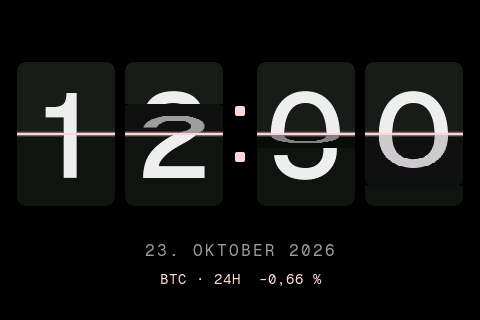
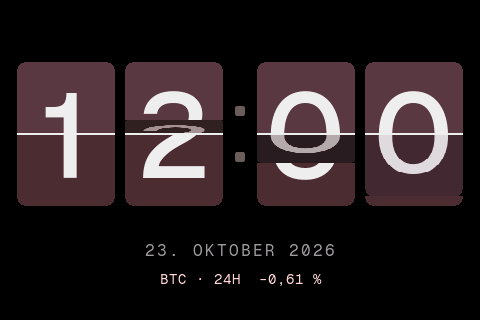
Klappzahlen: weiße Fuge, Plättchen in Trendfarbe getönt
- die Fuge ist eine weiße Linie, der 24h-Trend tönt stattdessen die Plättchen: grün bei
  steigendem, rosé bei fallendem Kurs (eigene Palette der Plättchen, Ziffern bleiben weiß)
- README und Website angepasst

diff --git a/docs/index.html b/docs/index.html
@@ -250,13 +250,13 @@ footer a{color:var(--text2)}
       <div class="media">
         <div class="duo">
           <figure><img src="img/uhr-1.png" alt="Klappzahlen beim Umklappen"><figcaption class="cap">12:59 → 13:00 · klappt</figcaption></figure>
-          <figure><img src="img/uhr-2.png" alt="Klappzahlen mit steigendem Kurs: grünes Licht in der Fuge"><figcaption class="cap">24h gestiegen · grün</figcaption></figure>
+          <figure><img src="img/uhr-2.png" alt="Klappzahlen mit steigendem Kurs: grün getönte Plättchen"><figcaption class="cap">24h gestiegen · grün</figcaption></figure>
         </div>
       </div>
       <div>
         <div class="cap">Klappzahlen</div>
         <h3 style="font-size:30px;letter-spacing:-.8px;margin:10px 0 14px">Die Zeit klappt um.</h3>
-        <p>Die Uhr ist eine Fallblattanzeige: Ändert sich eine Ziffer, klappt die obere Hälfte weg und die neue untere Hälfte herab – schattiert und von rechts nach links versetzt. Durch die Fuge scheint Licht in der Farbe des 24h-Trends: hellgrün, wenn der Bitcoin-Kurs gestiegen ist, pink, wenn er gefallen ist.</p>
+        <p>Die Uhr ist eine Fallblattanzeige: Ändert sich eine Ziffer, klappt die obere Hälfte weg und die neue untere Hälfte herab – schattiert und von rechts nach links versetzt. Die Plättchen sind leicht in der Farbe des 24h-Trends getönt: hellgrün, wenn der Bitcoin-Kurs gestiegen ist, pink, wenn er gefallen ist.</p>
       </div>
     </div>
 
@@ -447,7 +447,7 @@ const CARDS = [
   ["Halving", "karte-halving", "Pixel-Sand über den ganzen Bildschirm: geschürfte Blöcke der Epoche, Restblöcke, geschätztes Datum."],
   ["Gebühren", "karte-gebuehren", "Niedrig, mittel und hoch in sat/vB und in deiner Währung, dazu Sats pro Dollar."],
   ["Difficulty", "karte-difficulty", "Erwartete Anpassung, Fortschritt der Periode und Blöcke bis zum Retarget."],
-  ["Uhr", "karte-uhr", "Klappzahlen wie eine Fallblattanzeige. Licht in der Fuge zeigt den 24h-Trend: grün rauf, pink runter."],
+  ["Uhr", "karte-uhr", "Klappzahlen wie eine Fallblattanzeige. Die Plättchen zeigen den 24h-Trend: hellgrün rauf, pink runter."],
   ["Bitaxe", "karte-bitaxe", "Hashrate, Session- und Bestwert gegenüber dem Netzwerk, ASIC- und VR-Temperatur, Lüfter."],
   ["Mining-Kosten", "karte-kosten", "Verbrauch, Kosten pro Tag, Monat und Jahr, das Lotterielos in sats und ein Stromzähler."],
   ["Share-Lotterie", "karte-lotterie", "Jeder Hash deines Bitaxe live als Punkt im Histogramm – ganz rechts wartet der Block."],

diff --git a/firmware/main/ui.c b/firmware/main/ui.c
@@ -882,27 +882,29 @@ static void fc_render(uint8_t *img, char ch)
         }
 }
 
-// Fuge: Licht in der Farbe des 24h-Trends scheint durch den Spalt und färbt die Kanten daneben
-// (Palette der Plättchen: 240 … 255 = Trendfarbe in 16 Stufen)
-static void fc_seam(uint8_t *dst)
-{
-    uint8_t *gap = dst + (FC_HALF - 1) * FC_W;
-    if (!s_trend) { memset(gap, 0, FC_W * 2); return; }
-    memset(gap, PX_PINK, FC_W * 2);
-    static const int glow[2] = {6, 2}; // Stufe direkt neben dem Spalt, eine Zeile weiter
-    for (int i = 0; i < 2; i++) {
-        uint8_t *up = dst + (FC_HALF - 2 - i) * FC_W, *dn = dst + (FC_HALF + 1 + i) * FC_W;
-        for (int x = 0; x < FC_W; x++) {
-            if (up[x] && up[x] < 0x60) up[x] = PX_PINK0 + glow[i];
-            if (dn[x] && dn[x] < 0x60) dn[x] = PX_PINK0 + glow[i];
-        }
-    }
-}
+// Fuge: weiße Linie quer über das Plättchen
+static void fc_seam(uint8_t *dst) { memset(dst + (FC_HALF - 1) * FC_W, 0xEC, FC_W * 2); }
 
+// Palette der Plättchen: Index = Helligkeit wie bisher, aber der Grund der Plättchen leicht in der
+// Trendfarbe (gestiegen hellgrün, gefallen pink); dunkler wird er zu Schwarz, heller zum Weiß der Ziffern
 static void fc_palette(void)
 {
+    // dunkle, etwas kräftigere Töne derselben Farbe – ein abgedunkeltes Pastell würde grau-braun
+    uint32_t tc = s_trend > 0 ? 0x2E563C : 0x5C3A44; // Grund der oberen Hälfte: Grün bzw. Rosé
+    const float bgv = 0x1D, white = 0xEC;
+    float br = (tc >> 16) & 0xFF, bgc = (tc >> 8) & 0xFF, bb = tc & 0xFF;
     for (int k = 0; k < 4; k++)
-        for (int i = 0; i < 16; i++) lv_canvas_set_palette(FC.cv[k].cv, PX_PINK0 + i, lv_color_mix(trend_col(), C_BG, (uint8_t)(32 + i * 223 / 15)));
+        for (int v = 0; v < PX_PINK0; v++) {
+            lv_color_t c;
+            if (!s_trend) c = lv_color_make(v, v, v);
+            else if (v <= bgv) c = lv_color_make((uint8_t)(br * v / bgv), (uint8_t)(bgc * v / bgv), (uint8_t)(bb * v / bgv));
+            else {
+                float f = (v - bgv) / (white - bgv);
+                if (f > 1) f = 1;
+                c = lv_color_make((uint8_t)(br + (white - br) * f), (uint8_t)(bgc + (white - bgc) * f), (uint8_t)(bb + (white - bb) * f));
+            }
+            lv_canvas_set_palette(FC.cv[k].cv, v, c);
+        }
 }
 
 // Plättchen k zum Zeitpunkt now zusammensetzen

diff --git a/firmware/README.md b/firmware/README.md
@@ -24,7 +24,7 @@ endlos im Kreis: nach der letzten kommt wieder die erste, in beide Richtungen. A
 | 6 | Halving | Vollbild aus Pixel-Sand: unten die schon geschürften Blöcke der Epoche, darüber die restlichen; Blöcke bis zum Halving groß, Zielblock, geschätztes Datum, Belohnung vorher/nachher |
 | 7 | Blockzeit & Gebühren | Blockhöhe, Sats pro USD, Gebühren niedrig/mittel/hoch in sat/vB und $ |
 | 8 | Difficulty-Anpassung | erwartete Änderung, Fortschritt, Blöcke bis Retarget |
-| 9 | Uhr | Klappzahlen (Standard) wie eine Fallblattanzeige oder klassisch; Datum; die 24h-Änderung des Kurses färbt die Uhr hellgrün (gestiegen) oder pink (gefallen) |
+| 9 | Uhr | Klappzahlen (Standard) wie eine Fallblattanzeige oder klassisch; Datum; die 24h-Änderung des Kurses tönt die Plättchen hellgrün (gestiegen) oder pink (gefallen) |
 | 10 | Bitaxe | Vollbild: Name, IP/Status, Hashrate, Session/Best vs. Netzwerk, ASIC-/VR-Temperatur, Lüfter |
 | 11 | Mining-Kosten | aktueller Verbrauch des Bitaxe in W, Kosten pro Tag/Monat/Jahr samt kWh, Tageskosten in sats („Lotterielos“), gezählter Verbrauch heute und gesamt |
 | 12 | Share-Lotterie | jeder vom Bitaxe gefundene Hash live als Punkt im Histogramm (log. Skala) – links häufig, rechts selten, ganz rechts der Block; letzter/bester Hash, Hashes pro Minute, Abstand zum Block |
@@ -85,10 +85,11 @@ so groß wie bei der klassischen Uhr. Ändert sich eine Ziffer, klappt die obere
 Ziffer zur Fuge hin weg, danach klappt die untere Hälfte mit der neuen Ziffer herab – mit Schatten wie
 bei einer echten Anzeige. Mehrere Ziffern klappen von rechts nach links kurz nacheinander.
 
-**24h-Trend:** Durch die Fuge scheint Licht in der Farbe der Kursänderung der letzten 24 Stunden –
-hellgrün (`#9BE3B0`), wenn der Bitcoin-Kurs gestiegen ist, pink (`#FFD4D4`), wenn er gefallen ist. Der
-Doppelpunkt blinkt in derselben Farbe, unter dem Datum steht die Änderung („BTC · 24H +2,34 %“). Die
-klassische Uhr (Auswahl „Uhr“ auf der Browser-Seite) zeigt die Änderung ebenfalls farbig unter dem Datum.
+**24h-Trend:** Die Plättchen sind leicht in der Farbe der Kursänderung der letzten 24 Stunden getönt –
+hellgrün (`#9BE3B0`), wenn der Bitcoin-Kurs gestiegen ist, pink (`#FFD4D4`), wenn er gefallen ist; die
+Fuge bleibt eine weiße Linie. Der Doppelpunkt blinkt in derselben Farbe, unter dem Datum steht die
+Änderung („BTC · 24H +2,34 %“). Die klassische Uhr (Auswahl „Uhr“ auf der Browser-Seite) zeigt die
+Änderung ebenfalls farbig unter dem Datum.
 
 ## Nachtmodus
 
